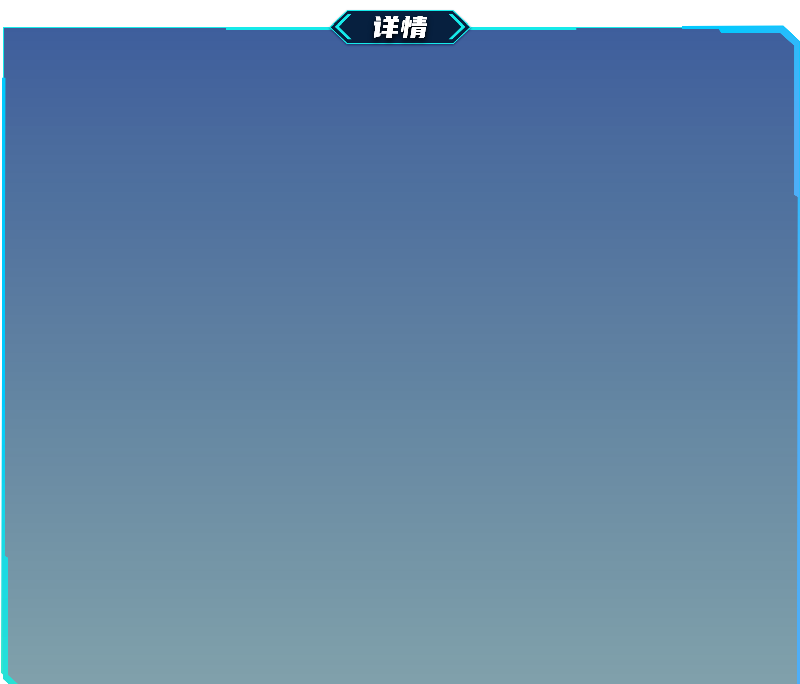
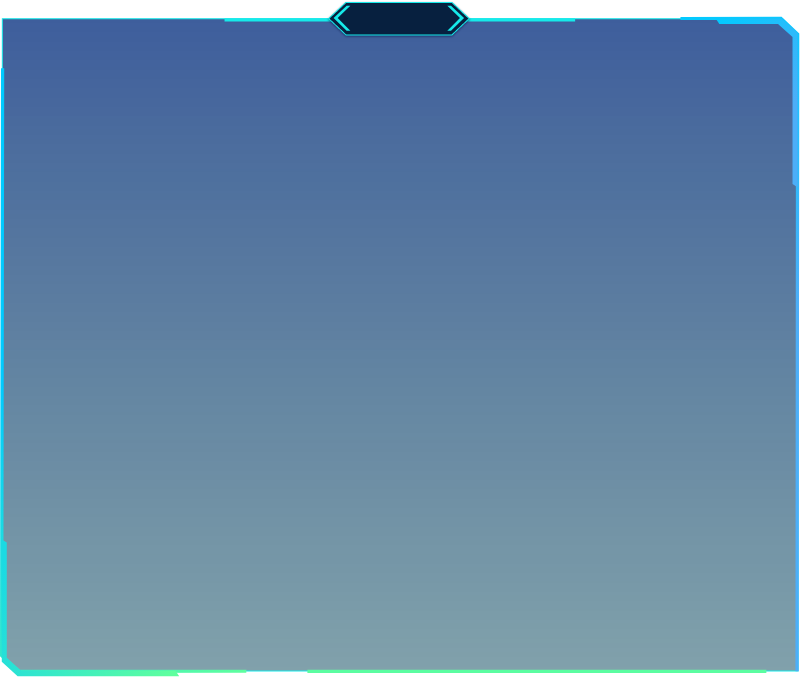
dev

Changed region(s): [[0.0, 0.0, 1.0, 1.0]]

diff --git a/src/components/sourcelayer/commonFrame/DetailPopup/DetailPopup.vue b/src/components/sourcelayer/commonFrame/DetailPopup/DetailPopup.vue
@@ -2,6 +2,7 @@
   <div id="forcePopUp" v-if="showPopUp">
     <div id="forcePopUpContent" class="leaflet-popup">
       <a class="leaflet-popup-close-button" href="#" @click="closePopup"></a>
+      <div class="header">详情</div>
       <div class="leaflet-popup-content-wrapper">
         <div id="forcePopUpLink" class="leaflet-popup-content">
           <div class="leaflet-popup-content">
@@ -84,7 +85,15 @@
                 <div class="content">{{forceEntity.ZRDW}}</div>
               </div>
             </div>
-            <div class="plan-wrapper">
+            <div class="plan-wrapper" v-show="type == 'project'">
+              <div class="title">
+                <span class="title-pre"></span>建设内容和规模
+              </div>
+              <div class="question">
+                {{forceEntity.CONTENTGM}}
+              </div>
+            </div>
+            <div class="plan-wrapper" v-show="type == 'duandian'">
               <div class="title">
                 <span class="title-pre"></span>存在问题
               </div>
@@ -213,7 +222,8 @@ export default {
     text-align: left;
     .name {
       display: block;
-      height: 25px;
+      // height: 25px;
+      width: 620px;
       line-height: 25px;
       font-family: YouSheBiaoTiHei;
       font-size: 26px;
@@ -235,6 +245,16 @@ export default {
       background-image: linear-gradient(90deg, #16EAEA 0%, transparent 100%);
       transform: skewX(-30deg);
     }
+  }
+
+  .header {
+    position: absolute;
+    top: 6px;
+    left: 50%;
+    transform: translateX(-50%);
+    font-family: YouSheBiaoTiHei;
+    font-size: 26px;
+    color: #fff;
   }
 
   .leaflet-popup-close-button {
@@ -308,7 +328,7 @@ export default {
       }
       .swiper-wrapper {
         margin: 0;
-        width: 333px;
+        width: 670px;
         .swiper-item {
           img {
             width: 160px;
